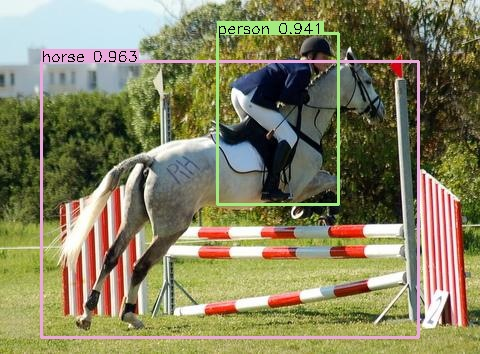
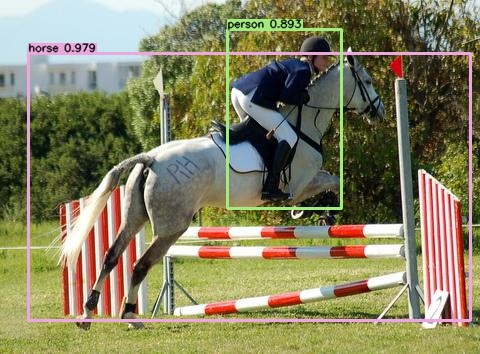
docs(readme): update <Demo>

Changed region(s): [[0.0312, 0.0311, 1.0, 0.9633]]

diff --git a/README.md b/README.md
@@ -60,8 +60,8 @@
     <td class="tg-zkss">63.4</td>
     <td class="tg-9y4h">52.7</td>
     <td class="tg-9y4h">66.5</td>
-    <td class="tg-baqh">66.06</td>
-    <td class="tg-baqh">54.81</td>
+    <td class="tg-baqh">71.71</td>
+    <td class="tg-baqh">60.38</td>
     <td class="tg-baqh">66.85</td>
     <td class="tg-baqh">52.89</td>
   </tr>
@@ -151,27 +151,27 @@ CUDA_VISIBLE_DEVICES=0,1,2,3 python -m torch.distributed.launch --nproc_per_node
 ```shell
 python eval.py -c configs/yolov1_s14_voc.cfg -ckpt outputs/yolov1_s14_voc/model_best.pth.tar ../datasets/voc
 VOC07 metric? Yes
-AP for aeroplane = 0.6778
-AP for bicycle = 0.7818
-AP for bird = 0.6459
-AP for boat = 0.5422
-AP for bottle = 0.3457
-AP for bus = 0.7388
-AP for car = 0.7438
-AP for cat = 0.8009
-AP for chair = 0.4762
-AP for cow = 0.6693
-AP for diningtable = 0.6399
-AP for dog = 0.7767
-AP for horse = 0.8256
-AP for motorbike = 0.7572
-AP for person = 0.6953
-AP for pottedplant = 0.3835
-AP for sheep = 0.6109
-AP for sofa = 0.6699
-AP for train = 0.7631
-AP for tvmonitor = 0.6684
-Mean AP = 0.6606
+AP for aeroplane = 0.7277
+AP for bicycle = 0.8156
+AP for bird = 0.7018
+AP for boat = 0.5847
+AP for bottle = 0.4280
+AP for bus = 0.7849
+AP for car = 0.7739
+AP for cat = 0.8371
+AP for chair = 0.5432
+AP for cow = 0.7970
+AP for diningtable = 0.7196
+AP for dog = 0.8270
+AP for horse = 0.8401
+AP for motorbike = 0.7996
+AP for person = 0.7258
+AP for pottedplant = 0.4511
+AP for sheep = 0.7157
+AP for sofa = 0.7383
+AP for train = 0.8082
+AP for tvmonitor = 0.7221
+Mean AP = 0.7171
 python eval.py -c configs/yolov1_voc.cfg -ckpt outputs/yolov1_voc/model_best.pth.tar ../datasets/voc
 VOC07 metric? Yes
 AP for aeroplane = 0.6916
@@ -197,27 +197,27 @@ AP for tvmonitor = 0.6996
 Mean AP = 0.6685
 python eval.py -c configs/fastyolov1_s14_voc.cfg -ckpt outputs/fastyolov1_s14_voc/model_best.pth.tar ../datasets/voc
 VOC07 metric? Yes
-AP for aeroplane = 0.6351
-AP for bicycle = 0.6876
-AP for bird = 0.4754
-AP for boat = 0.3916
-AP for bottle = 0.2111
-AP for bus = 0.6681
-AP for car = 0.6473
-AP for cat = 0.6638
-AP for chair = 0.3328
-AP for cow = 0.5368
-AP for diningtable = 0.5210
-AP for dog = 0.6372
-AP for horse = 0.7270
-AP for motorbike = 0.6959
-AP for person = 0.6057
-AP for pottedplant = 0.2159
-AP for sheep = 0.5438
-AP for sofa = 0.5415
-AP for train = 0.6783
-AP for tvmonitor = 0.5458
-Mean AP = 0.5481
+AP for aeroplane = 0.6090
+AP for bicycle = 0.7262
+AP for bird = 0.5349
+AP for boat = 0.4699
+AP for bottle = 0.2417
+AP for bus = 0.7292
+AP for car = 0.7069
+AP for cat = 0.7192
+AP for chair = 0.3803
+AP for cow = 0.6386
+AP for diningtable = 0.6300
+AP for dog = 0.7174
+AP for horse = 0.7696
+AP for motorbike = 0.7248
+AP for person = 0.6621
+AP for pottedplant = 0.3198
+AP for sheep = 0.6093
+AP for sofa = 0.5662
+AP for train = 0.7128
+AP for tvmonitor = 0.6071
+Mean AP = 0.6038
 python eval.py -c configs/fastyolov1_voc.cfg -ckpt outputs/fastyolov1_voc/model_best.pth.tar ../datasets/voc
 VOC07 metric? Yes
 AP for aeroplane = 0.5515
@@ -246,7 +246,7 @@ Mean AP = 0.5289
 ### Demo
 
 ```shell
-python demo.py -c 0.4 configs/yolov1_s14_voc.cfg outputs/yolov1_s14_voc/model_best.pth.tar --exp voc assets/voc2007-test/
+python demo.py -ct 0.2 configs/yolov1_s14_voc.cfg outputs/yolov1_s14_voc/model_best.pth.tar --exp voc assets/voc2007-test/
 ```
 
 <p align="left"><img src="results/voc/000237.jpg" height="240"\>  <img src="results/voc/000386.jpg" height="240"\></p>
